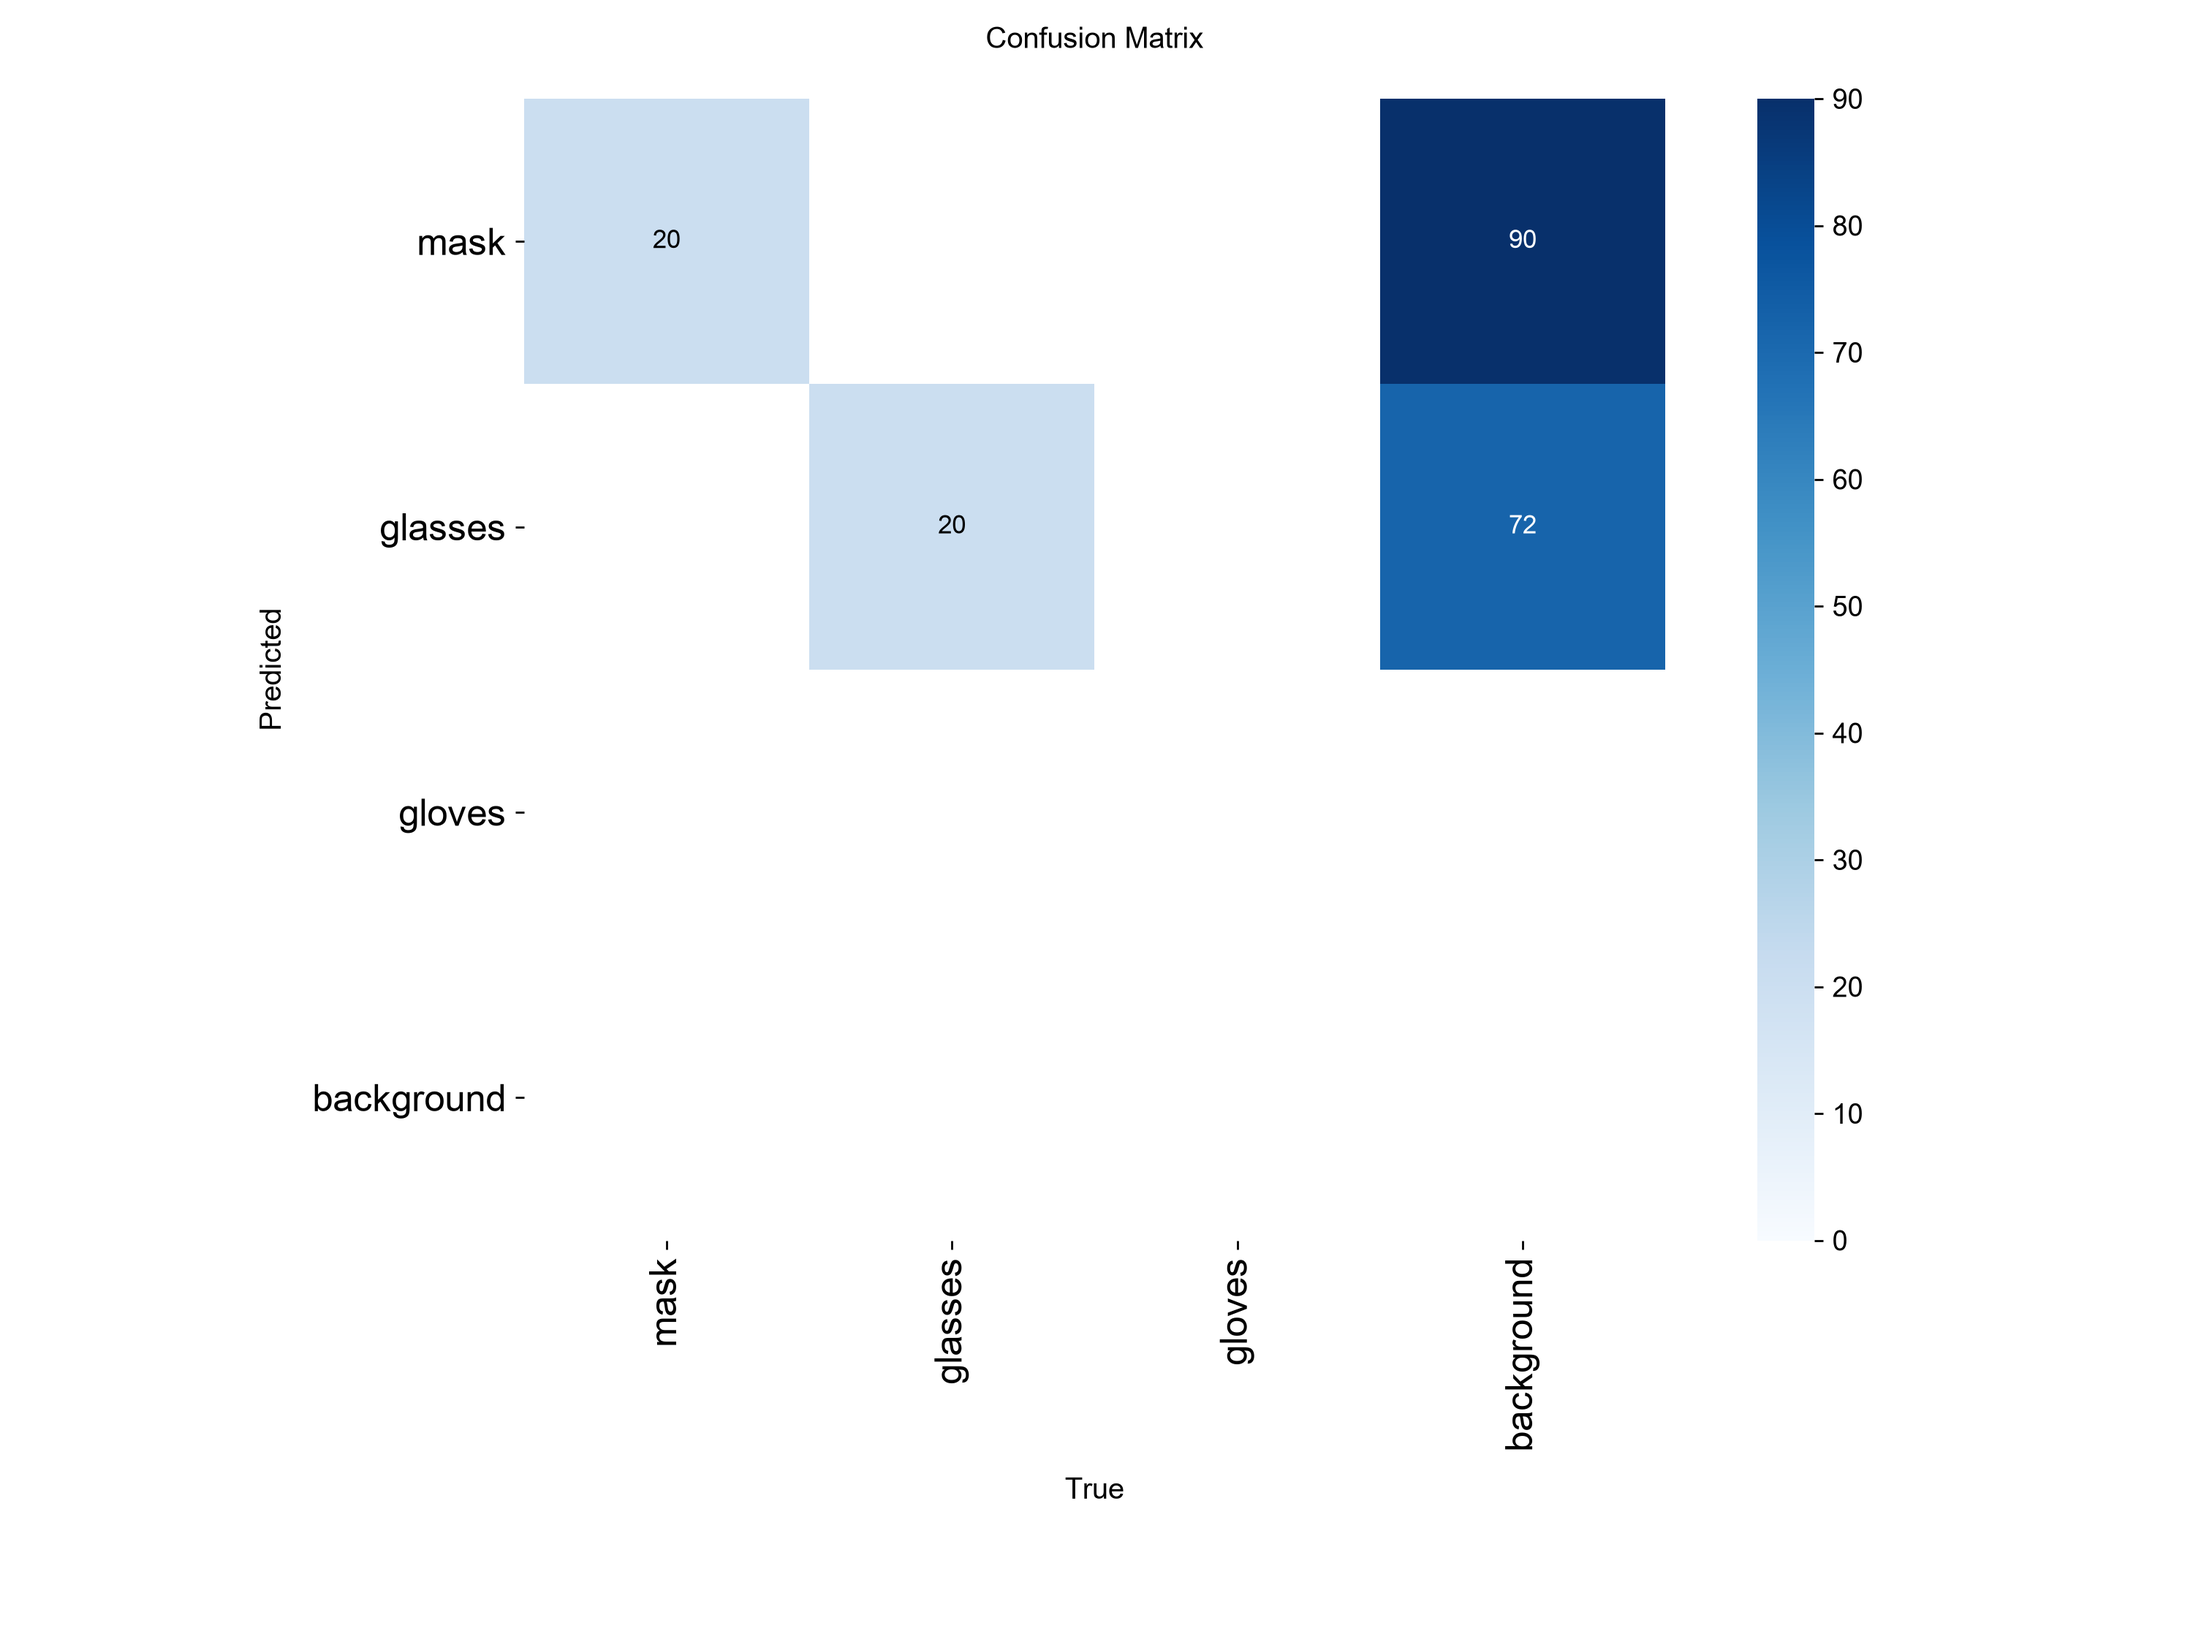
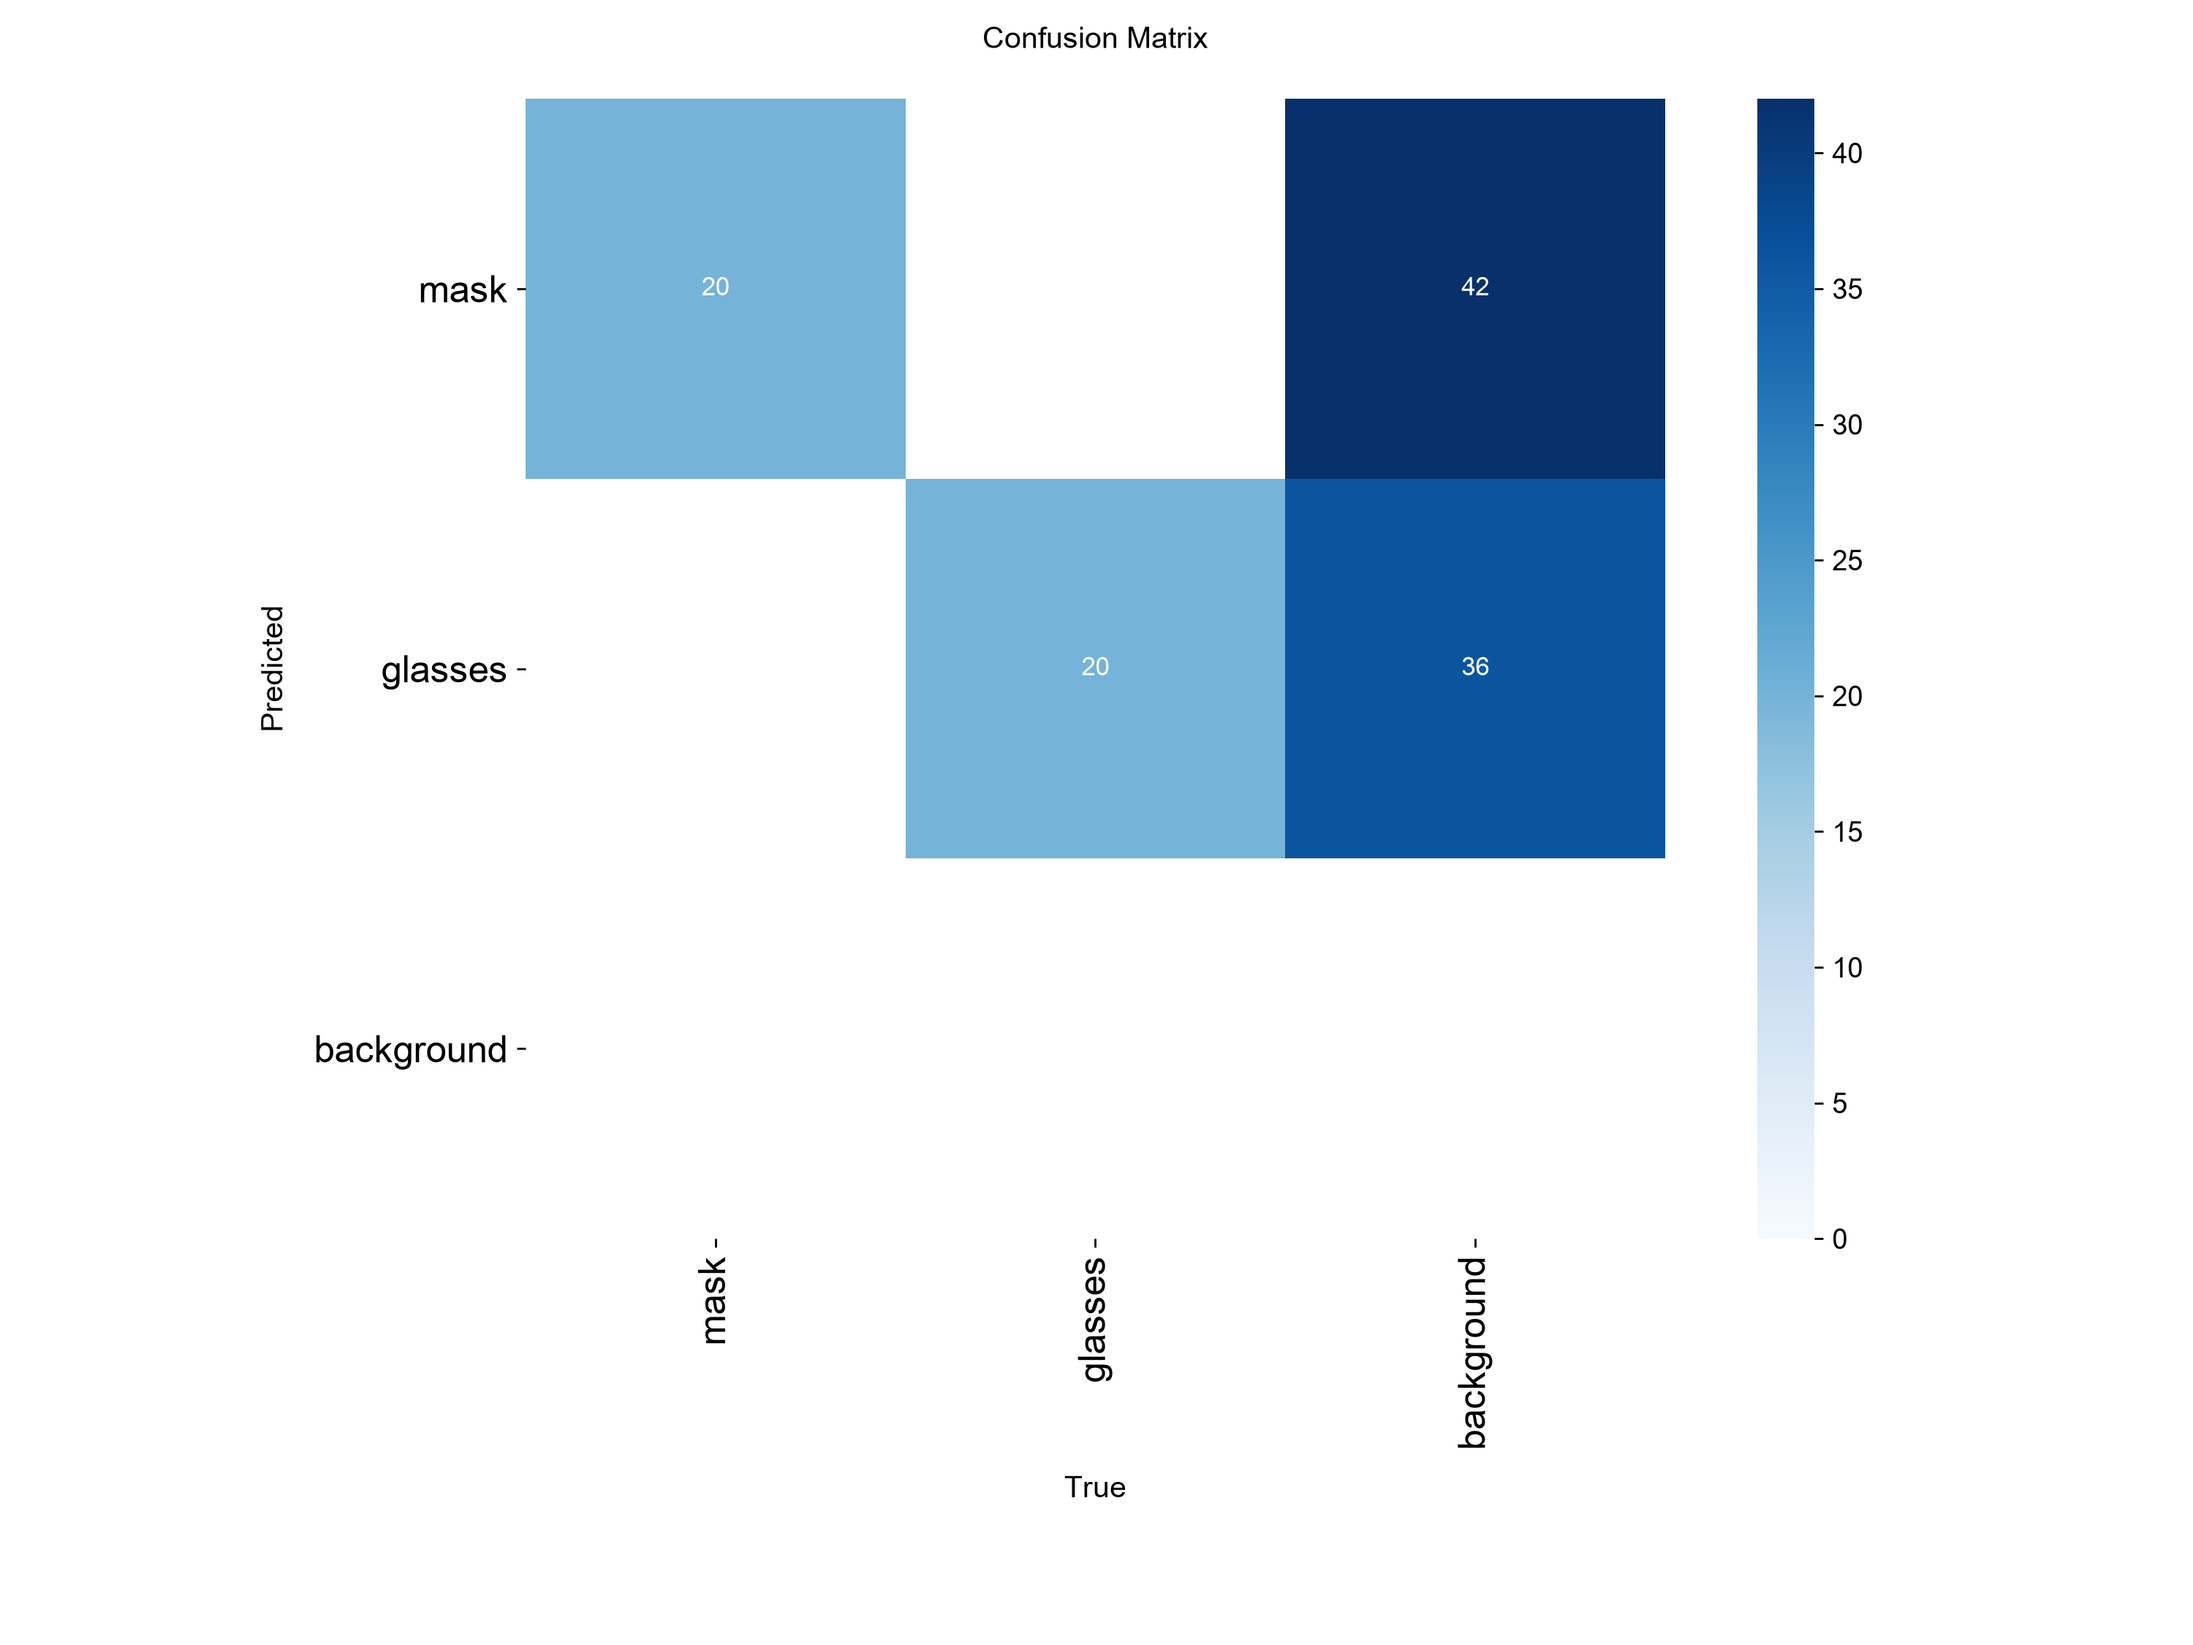
Update two-class YOLO11 experiment results and documentation

diff --git a/dokumentasi/hasil_eksperimen.md b/dokumentasi/hasil_eksperimen.md
@@ -1,36 +1,129 @@
-# Hasil Eksperimen YOLO11n
+# Laporan Eksperimen Deteksi APD Menggunakan YOLO11n
 
-## Konfigurasi
-- Model: YOLO11n
-- Epoch: 30
-- Ukuran gambar: 640
-- Batch size: 8
-- Dataset: 200 gambar (140 train, 40 validation, 20 test)
-- Kelas berlabel: mask dan glasses
+## 1. Tujuan
 
-## Hasil evaluasi pada data test
+Eksperimen ini bertujuan melatih dan mengevaluasi model deteksi objek untuk mengenali dua jenis alat pelindung diri (APD), yaitu masker (*mask*) dan kacamata (*glasses*), menggunakan YOLO11n.
+
+## 2. Dataset
+
+Dataset terdiri dari 200 gambar yang dibagi menjadi data training, validation, dan testing.
+
+| Subset | Jumlah Gambar |
+|---|---:|
+| Training | 140 |
+| Validation | 40 |
+| Testing | 20 |
+| **Total** | **200** |
+
+Kelas objek yang digunakan:
+
+- Class 0: Mask
+- Class 1: Glasses
+
+Dataset referensi: [Aidilrajinbelajar/PJ1-RET-503](https://github.com/Aidilrajinbelajar/PJ1-RET-503).
+
+**Catatan:** Kelas gloves tidak disertakan karena anotasinya belum terverifikasi pada dataset yang digunakan.
+
+## 3. Konfigurasi Training
+
+| Parameter | Nilai |
+|---|---|
+| Model | YOLO11n |
+| Bobot awal | `yolo11n.pt` |
+| Epoch | 30 |
+| Ukuran gambar | 640 × 640 piksel |
+| Batch size | 8 |
+| Perangkat | CPU |
+| Framework | Ultralytics |
+| Jumlah kelas | 2 |
+
+## 4. Hasil Validasi
+
+Hasil validasi model terbaik setelah training:
 
 | Metrik | Hasil |
 |---|---:|
-| Precision | 96.68% |
+| Precision | 96,2% |
 | Recall | 100% |
-| mAP50 | 99.50% |
-| mAP50-95 | 80.66% |
-| Waktu inferensi rata-rata | 38.5 ms/gambar |
+| mAP@50 | 99,5% |
+| mAP@50–95 | 69,7% |
+| Waktu inferensi rata-rata | 38,8 ms/gambar |
 
-## Hasil per kelas
+## 5. Hasil Evaluasi Testing
 
-| Kelas | Precision | Recall | mAP50 | mAP50-95 |
-|---|---:|---:|---:|---:|
-| Mask | 96.0% | 100% | 99.5% | 83.3% |
-| Glasses | 97.4% | 100% | 99.5% | 78.0% |
+Model terbaik kemudian dievaluasi menggunakan 20 gambar testing.
 
-## Catatan
-Dataset yang digunakan memiliki dua kelas berlabel, yaitu mask dan glasses.
-Deteksi gloves belum dapat dievaluasi karena tidak ditemukan label kelas tersebut.
-Hasil ini berasal dari pengujian 20 gambar dan belum mewakili seluruh kondisi penggunaan nyata.
+| Kelas | Jumlah Instance | Precision | Recall | mAP@50 | mAP@50–95 |
+|---|---:|---:|---:|---:|---:|
+| Mask | 10 | 97,3% | 100% | 99,5% | 81,2% |
+| Glasses | 10 | 100% | 96,2% | 99,5% | 75,2% |
+| **Keseluruhan** | **20** | **98,7%** | **98,1%** | **99,5%** | **78,2%** |
 
-## Lokasi hasil
-- Model terbaik: hasil/ppe_k3-3/weights/best.pt
-- Gambar hasil prediksi: runs/detect/hasil/uji_test
-- Grafik evaluasi: runs/detect/hasil/evaluasi_test
+Waktu inferensi rata-rata pada evaluasi testing adalah 43,0 ms per gambar, belum termasuk preprocessing dan postprocessing.
+
+## 6. Visualisasi Hasil Eksperimen
+
+### 6.1 Grafik Training
+
+![Grafik training](gambar_hasil/grafik_training.png)
+
+### 6.2 Confusion Matrix Training/Validation
+
+![Confusion matrix training](gambar_hasil/confusion_matrix_training.png)
+
+### 6.3 Confusion Matrix Testing
+
+![Confusion matrix testing](gambar_hasil/confusion_matrix_test.png)
+
+### 6.4 Precision–Recall Curve Testing
+
+![Precision recall curve](gambar_hasil/pr_curve_test.png)
+
+### 6.5 F1 Curve
+
+![F1 curve](gambar_hasil/f1_curve.png)
+
+### 6.6 Precision Curve
+
+![Precision curve](gambar_hasil/precision_curve.png)
+
+### 6.7 Recall Curve
+
+![Recall curve](gambar_hasil/recall_curve.png)
+
+### 6.8 Contoh Prediksi Data Validation
+
+![Prediksi validation 1](gambar_hasil/prediksi_validasi_1.jpg)
+
+![Prediksi validation 2](gambar_hasil/prediksi_validasi_2.jpg)
+
+![Prediksi validation 3](gambar_hasil/prediksi_validasi_3.jpg)
+
+## 7. Analisis Hasil
+
+Pada dataset testing, model memperoleh precision sebesar 98,7%, recall sebesar 98,1%, dan mAP@50 sebesar 99,5%. Hasil ini menunjukkan bahwa model dapat mendeteksi dua kelas yang digunakan dengan baik pada data pengujian tersebut.
+
+Nilai mAP@50–95 sebesar 78,2% lebih rendah daripada mAP@50. Hal ini menunjukkan bahwa ketepatan posisi bounding box masih dapat ditingkatkan ketika digunakan kriteria Intersection over Union (IoU) yang lebih ketat.
+
+Hasil evaluasi ini berlaku untuk dataset pengujian yang digunakan dan belum menjamin performa yang sama pada seluruh kondisi lingkungan nyata.
+
+## 8. Keterbatasan
+
+1. Dataset terdiri dari 200 gambar sehingga variasi data masih terbatas.
+2. Model hanya mendeteksi masker dan kacamata.
+3. Kelas gloves belum dimasukkan karena anotasinya belum terverifikasi.
+4. Training dilakukan menggunakan CPU.
+5. Pengujian tambahan diperlukan pada variasi pencahayaan, jarak, sudut pengambilan gambar, dan kondisi lingkungan nyata.
+
+## 9. Kesimpulan
+
+Model YOLO11n berhasil dilatih selama 30 epoch untuk mendeteksi masker dan kacamata. Pada 20 gambar testing, model memperoleh precision 98,7%, recall 98,1%, mAP@50 99,5%, dan mAP@50–95 78,2%.
+
+Model ini dapat digunakan sebagai prototipe deteksi dua kelas APD. Pengembangan selanjutnya dapat dilakukan dengan menambah variasi dataset, memverifikasi anotasi, dan menguji model pada kondisi nyata.
+
+## 10. Artefak Eksperimen
+
+- `hasil_eksperimen.csv`: log metrik training setiap epoch.
+- `konfigurasi_training.yaml`: konfigurasi training.
+- `gambar_hasil/`: visualisasi training, evaluasi, dan contoh prediksi.
+- `hasil/ppe_2kelas/weights/best.pt`: bobot model terbaik yang disimpan secara lokal.
